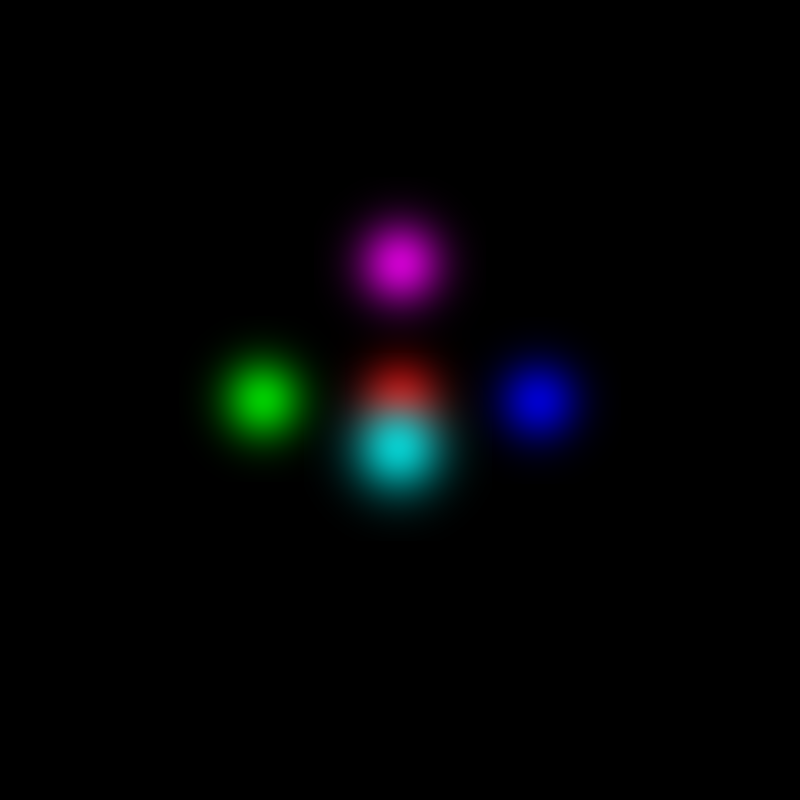
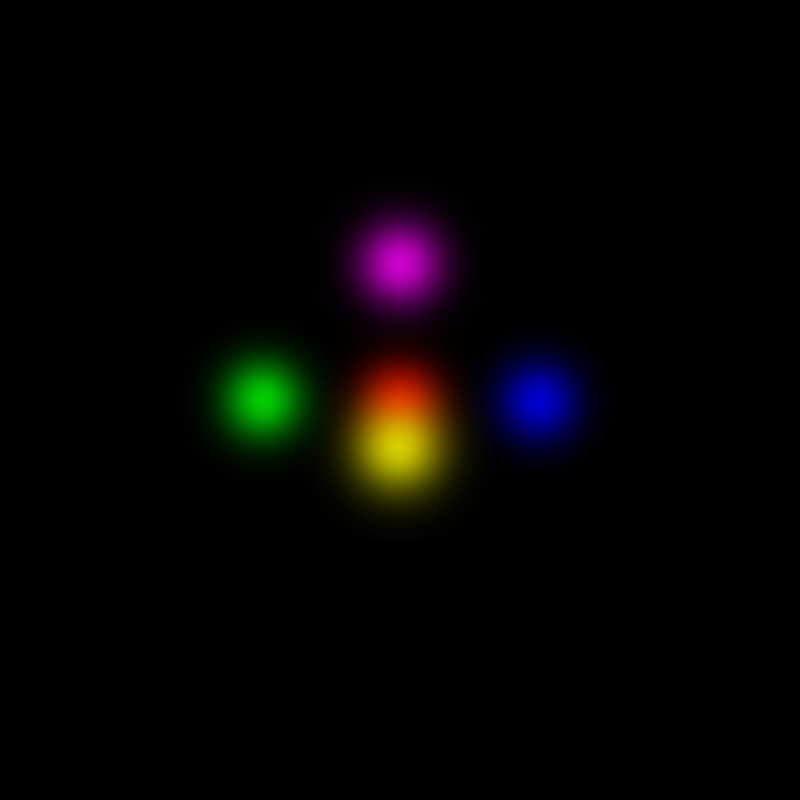
Gaus Class

Changed region(s): [[0.4062, 0.4688, 0.5938, 0.6562]]

diff --git a/main.py b/main.py
@@ -108,25 +108,34 @@ color = np.array([1.0, 0.0, 0.0])
 # output = Image.fromarray(np.clip(rgb_array * 255, 0, 255).astype(np.uint8))
 # output.save("Adjusted_depth.png")
 
-gaussians = [[[0, 0, 0], 0.10, np.array([1.0, 0.0, 0.0]), 0.8],
-            [[0.5, 0, 0], 0.10, np.array([0.0, 1.0, 0.0]), 0.8],
-            [[-0.5, 0, 0], 0.10, np.array([0.0, 0.0, 1.0]), 0.8],
-            [[0, 0.5, 0], 0.10, np.array([0.0, 1.0, 1.0]), 0.8],
-            [[0, 0, 0.5], 0.10, np.array([1.0, 0.0, 1.0]), 0.8]]
+class Gaussian:
+    def __init__ (self, wp, radius, color, opacity):
+        self.wp = wp
+        self.raius = radius
+        self.color = color
+        self.opacity = opacity
+
+gaussians = [Gaussian([0, 0, 0], 0.10, np.array([1.0, 0.0, 0.0]), 0.8),
+            Gaussian([0.5, 0, 0], 0.10, np.array([0.0, 1.0, 0.0]), 0.8),
+            Gaussian([-0.5, 0, 0], 0.10, np.array([0.0, 0.0, 1.0]), 0.8),
+            Gaussian([0, 0.5, 0], 0.10, np.array([1.0, 1.0, 0.0]), 0.8),
+            Gaussian([0, 0, 0.5], 0.10, np.array([1.0, 0.0, 1.0]), 0.8)]
 
 rgb_gaus = np.zeros((camera_object.height, camera_object.width, 3))
+sort_rgb = []
 
 for gaussian in gaussians:
-    wp = gaussian[0]
-    radius = gaussian[1]
-    color = gaussian[2]
-    opacity  = gaussian[3]
+    wp = gaussian.wp
+    radius = gaussian.raius
+    color = gaussian.color
+    opacity  = gaussian.opacity
     u, v, depth = projection(wp, camera_object)
     if depth <= 0:
         continue
 
     sigma_p = camera_object.fx * radius / depth
     draw_gaussian_splat(rgb_gaus, camera_object.width, camera_object.height, u, v, sigma_p, color, opacity)
+    # i = 0
 
 output = Image.fromarray(np.clip(rgb_gaus * 255, 0, 255).astype(np.uint8))
 output.save("BlankSpace.png")